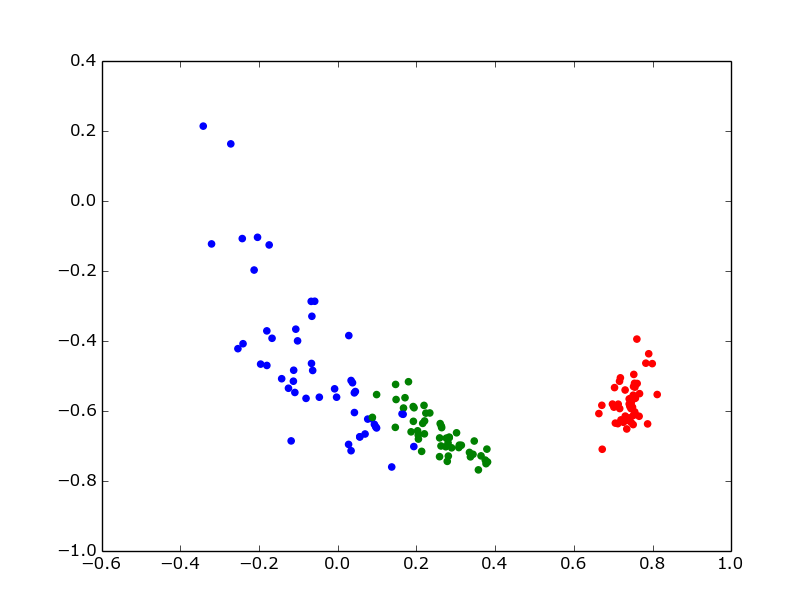
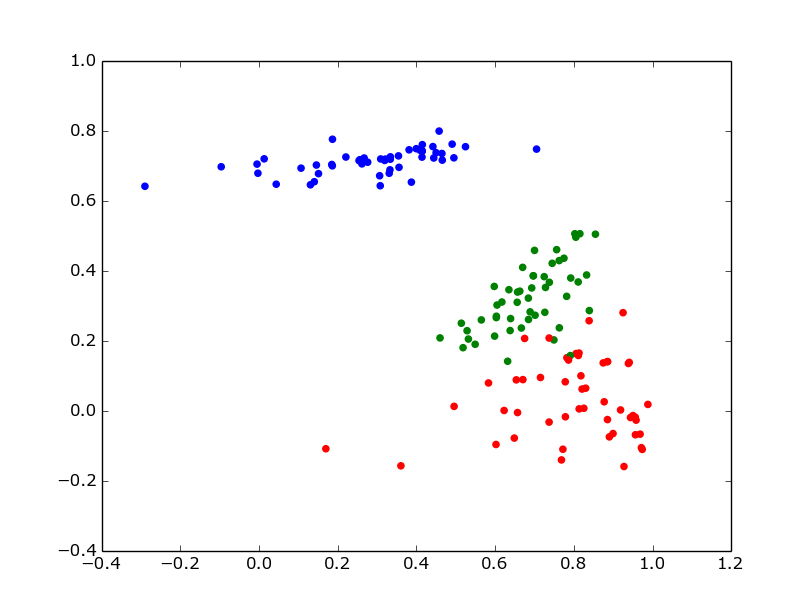
0.1

diff --git a/autoencoder.py b/autoencoder.py
@@ -13,8 +13,8 @@ class DataIterator(object):
 
         self.data_count = len(datas)
         if labels !=None and len(labels.shape) == 1:
-            label_type_count = labels.max() + 1
-            label_matrix = np.zeros((self.data_count, label_type_count))
+            self.class_num = labels.max() + 1
+            label_matrix = np.zeros((self.data_count, self.class_num))
             label_matrix[range(self.data_count), labels] = 1
             labels = label_matrix
 
@@ -49,76 +49,100 @@ def default_cost_listener(epoch, batch_index, cost_value):
 
 class AutoEncoder(object):
 
-    def __init__(self):
-        pass
-
-    # neuron_counts is the number of neuron for each hidden layer
+    # neuron_nums is the number of neuron for each hidden layer
     # the number of neuron of input layer and decoder is excluded
-    def fit(self, 
-            neuron_counts, 
+    def __init__(self,
+                neuron_nums,
+                learning_rate = 0.01,
+
+                fine_tuning = False,
+                class_num = None,
+                fine_tuning_learning_rate = 0.01
+
+                ):
+        if fine_tuning and class_num == None:
+            raise Exception("Please provide class_num when fine_tuning is True")
+
+        self.ws = neuron_nums
+        self.fine_tuning = fine_tuning
+        self.class_num = class_num
+
+        self.learning_rate = learning_rate
+        self.fine_tuning_learning_rate = fine_tuning_learning_rate
+
+    def on_cost_computed(self, epoch, batch_index, cost_value):
+        if epoch % 20 ==0 and batch_index % 10 == 0:
+            print "epoch: {} batch: {} cost: {}".format(epoch, batch_index, cost_value)
+
+
+    def fine_tune(self,
+                ite,
+                keep_prob = 1.0,
+                max_epoch = 1000,
+                ):
+
+        print "\nstart fine tuning ============\n"
+        for epoch in range(max_epoch):
+            ite.reset()
+            while ite.has_next():
+                batch_index = ite.next_batch_index
+                batch_inputs, batch_labels = ite.next()
+                feed_dict = {
+                        self.inputs_holder: batch_inputs,
+                        self.fine_tune_outputs_holder: batch_labels,
+                        self.keep_prob_holder: keep_prob
+                        }
+                _, c = self.sess.run([self.fine_tune_optimizer, self.fine_tune_cost], feed_dict = feed_dict)
+                self.on_cost_computed(epoch, batch_index, c)
+
+
+    def fit(self,
             ite,
-            fine_tuning = False,
-            learning_rate = 0.01,
             keep_prob = 1.0,
             max_epoch = 1000,
-            fine_tuning_learning_rate = 0.01,
-            fine_tuning_max_epoch = 1000,
-            cost_listener = default_cost_listener
             ):
-        self.ws = neuron_counts 
-        self.ite = ite
-
         ite.reset()
         peek_batch = ite.next()
         self.input_dim = peek_batch[0].shape[1]
-        if fine_tuning:
-            self.label_type_count = peek_batch[1].shape[1]
         ite.reset()
-
-
-
         self.ws = [self.input_dim] + self.ws
         self.tf_vars = {}
         self.tf_vars["encoder"] = []
         self.tf_vars["decoder"] = []
 
-        self.keep_prob = keep_prob
-        self.cost_listener = cost_listener
+        self.init_parameters()
+        self.inputs_holder = tf.placeholder(tf.float32, [None, self.ws[0]])
 
-        self.build(fine_tuning)
-        optimizer = tf.train.AdamOptimizer(learning_rate = learning_rate).minimize(self.cost)
+        self.keep_prob_holder = tf.placeholder(tf.float32)
+        self.inputs_holder = tf.nn.dropout(self.inputs_holder, self.keep_prob_holder)
+        self.encoder = self.build_encoder(self.inputs_holder)
 
-        if fine_tuning:
-            fine_tune_outputs_holder = tf.placeholder(tf.float32, [None, self.label_type_count])
-            fine_tune_cost = tf.reduce_mean(-tf.reduce_sum(fine_tune_outputs_holder * tf.log(self.fine_tune_outputs), reduction_indices=1))
-            fine_tune_optimizer = tf.train.AdamOptimizer(learning_rate = fine_tuning_learning_rate).minimize(fine_tune_cost)
+        self.generator_inputs_holder = tf.placeholder(tf.float32, [None, self.ws[-1]])
+        self.generator = self.build_decoder(self.generator_inputs_holder)
+        self.decoder = self.build_decoder(self.encoder)
+        self.cost = tf.reduce_mean(tf.pow(self.decoder - self.inputs_holder, 2))
+
+
+        if self.fine_tuning:
+            self.fine_tune_outputs = self.build_fine_tuning()
+            self.fine_tune_outputs_holder = tf.placeholder(tf.float32, [None, self.class_num])
+            self.fine_tune_cost = tf.reduce_mean(-tf.reduce_sum(self.fine_tune_outputs_holder * tf.log(self.fine_tune_outputs), reduction_indices=1))
+            self.fine_tune_optimizer = tf.train.AdamOptimizer(learning_rate = self.fine_tuning_learning_rate).minimize(self.fine_tune_cost)
+
+        optimizer = tf.train.AdamOptimizer(learning_rate = self.learning_rate).minimize(self.cost)
 
         init = tf.initialize_all_variables()
         self.sess = tf.Session()
         self.sess.run(init)
         print "\nstart training autoencoder ============\n"
         for epoch in range(max_epoch):
-            self.ite.reset()
-            while self.ite.has_next():
-                batch_index = self.ite.next_batch_index
-                batch_inputs, _ = self.ite.next()
-                feed_dict = {self.inputs_holder: batch_inputs, self.keep_prob_holder: self.keep_prob}
+            ite.reset()
+            while ite.has_next():
+                batch_index = ite.next_batch_index
+                batch_inputs, _ = ite.next()
+                feed_dict = {self.inputs_holder: batch_inputs, self.keep_prob_holder: keep_prob}
                 _, c = self.sess.run([optimizer, self.cost], feed_dict = feed_dict)
-                self.cost_listener(epoch, batch_index, c)
-        if fine_tuning:
-            print "\nstart fine tuning ============\n"
-            for epoch in range(fine_tuning_max_epoch):
-                self.ite.reset()
-                while self.ite.has_next():
-                    batch_index = self.ite.next_batch_index
-                    batch_inputs, batch_labels = self.ite.next()
-                    feed_dict = {
-                            self.inputs_holder: batch_inputs,
-                            fine_tune_outputs_holder: batch_labels,
-                            self.keep_prob_holder: self.keep_prob
-                            }
-                    _, c = self.sess.run([fine_tune_optimizer, fine_tune_cost], feed_dict = feed_dict)
-                    self.cost_listener(epoch, batch_index, c)
+                self.on_cost_computed(epoch, batch_index, c)
 
     def init_parameters(self):
         for i in range(len(self.ws) - 1):
@@ -155,28 +179,13 @@ class AutoEncoder(object):
 
 
 
-    def build(self, fine_tuning):
-        self.init_parameters()
-        self.inputs_holder = tf.placeholder(tf.float32, [None, self.ws[0]])
-        
-        self.keep_prob_holder = tf.placeholder(tf.float32)
-        self.inputs_holder = tf.nn.dropout(self.inputs_holder, self.keep_prob_holder)
-        self.encoder = self.build_encoder(self.inputs_holder)
-
-        self.generator_inputs_holder = tf.placeholder(tf.float32, [None, self.ws[-1]])
-        self.generator = self.build_decoder(self.generator_inputs_holder)
-        self.decoder = self.build_decoder(self.encoder)
-        self.cost = tf.reduce_mean(tf.pow(self.decoder - self.inputs_holder, 2))
-
-        if fine_tuning:
-            self.fine_tune_outputs = self.build_fine_tuning()
 
     def encode(self, inputs):
         feed_dict = {self.inputs_holder: inputs, self.keep_prob_holder: 1.0}
         encoder_outputs = self.sess.run(self.encoder, feed_dict = feed_dict)
         return encoder_outputs
 
-        
+
     def decode(self, inputs):
         feed_dict = {self.generator_inputs_holder: inputs}
         decoder_outputs = self.sess.run(self.generator, feed_dict = feed_dict)
@@ -185,7 +194,7 @@ class AutoEncoder(object):
     def predict(self, inputs):
         feed_dict = {self.inputs_holder: inputs, self.keep_prob_holder: 1.0}
         predicted_outputs = self.sess.run(self.fine_tune_outputs, feed_dict = feed_dict)
-        return predicted_outputs 
+        return predicted_outputs
 
     def reconstruct(self, inputs):
         feed_dict = {self.inputs_holder: inputs, self.keep_prob_holder: 1.0}
@@ -194,8 +203,8 @@ class AutoEncoder(object):
 
     def build_fine_tuning(self):
         self.tf_vars["output"] = {}
-        W = tf.Variable(tf.truncated_normal([self.ws[-1], self.label_type_count]), name="W")
-        b = tf.Variable(tf.truncated_normal([self.label_type_count]))
+        W = tf.Variable(tf.truncated_normal([self.ws[-1], self.class_num]), name="W")
+        b = tf.Variable(tf.truncated_normal([self.class_num]))
         self.tf_vars["output"]["W"] = W
         self.tf_vars["output"]["b"] = b
         fine_tune_outputs = tf.matmul(self.encoder, W) + b
@@ -203,10 +212,9 @@ class AutoEncoder(object):
         return fine_tune_outputs
 
 
-        
-        
 
-                    
+
+
+
     def close(self):
         self.sess.close()
-

diff --git a/tutorial_iris.py b/tutorial_iris.py
@@ -1,3 +1,4 @@
+#coding = utf-8
 from mpl_toolkits.mplot3d import Axes3D
 from autoencoder import AutoEncoder, DataIterator
 import codecs
@@ -39,14 +40,13 @@ iterator = DataIterator(datas, labels = labels)
 # train autoencoder
 # assume the input dimension is input_d
 # the network is like input_d -> 4 -> 2 -> 4 -> input_d
-autoencoder = AutoEncoder()
+autoencoder = AutoEncoder([4, 2], learning_rate = 0.02, 
+                        fine_tuning = True, class_num = iterator.class_num,
+                        fine_tuning_learning_rate = 0.02)
+
 # train autoencoder without fine-tuning
 print "\ntrain autoencoder without fine-tuning ==========\n"
-autoencoder.fit([4, 2], 
-		iterator, 
-		learning_rate = 0.02, 
-		max_epoch = 10000, 
-		)
+autoencoder.fit(iterator, max_epoch = 10000)
 
 # encode data (without fine-tuning)
 encoded_datas = autoencoder.encode(datas)
@@ -55,12 +55,7 @@ print encoded_datas
 
 # train autoencoder with fine-tuning
 print "\ntrain autoencoder with fine-tuning ==========\n"
-autoencoder.fit([4, 2], 
-		iterator, 
-		fine_tuning = True,
-		learning_rate = 0.02, 
-		max_epoch = 5000, 
-		fine_tuning_max_epoch = 4000)
+autoencoder.fine_tune(iterator, max_epoch = 6000)
 
 # encode data (with fine-tuning)
 tuned_encoded_datas = autoencoder.encode(datas)
@@ -78,6 +73,7 @@ error_count = len(np.where(eval_array == False)[0])
 correct_rate = float(correct_count)/(correct_count + error_count)
 error_rate = float(error_count)/(correct_count + error_count)
 print "correct: {}({})\terror: {}({})".format(correct_count, "%.2f" % correct_rate, error_count, "%.2f" % error_rate)
+autoencoder.close()
 
 #visualize encoded datas
 colors = ["red", "green", "blue"]

diff --git a/tutorial.py b/tutorial.py
@@ -1,3 +1,4 @@
+#coding = utf-8
 from autoencoder import AutoEncoder, DataIterator
 
 # train data
@@ -12,8 +13,8 @@ iterator = DataIterator(datas)
 # train autoencoder
 # assume the input dimension is input_d
 # the network is like input_d -> 4 -> 2 -> 4 -> input_d
-autoencoder = AutoEncoder()
-autoencoder.fit([4, 2], iterator, learning_rate = 0.01, max_epoch = 5000)
+autoencoder = AutoEncoder([4, 2], learning_rate = 0.01)
+autoencoder.fit(iterator, max_epoch = 5000)
 
 # after training
 

diff --git a/README.md b/README.md
@@ -14,6 +14,7 @@ Some tutorials require:
 ### Tutorial
 
 ```python
+#coding = utf-8
 from autoencoder import AutoEncoder, DataIterator
 
 # train data
@@ -28,8 +29,8 @@ iterator = DataIterator(datas)
 # train autoencoder
 # assume the input dimension is input_d
 # the network is like input_d -> 4 -> 2 -> 4 -> input_d
-autoencoder = AutoEncoder()
-autoencoder.fit([4, 2], iterator, learning_rate = 0.01, max_epoch = 5000)
+autoencoder = AutoEncoder([4, 2], learning_rate = 0.01)
+autoencoder.fit(iterator, max_epoch = 5000)
 
 # after training
 
